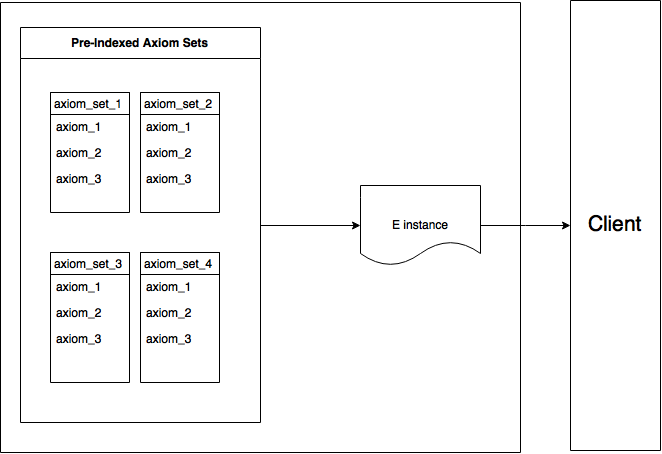
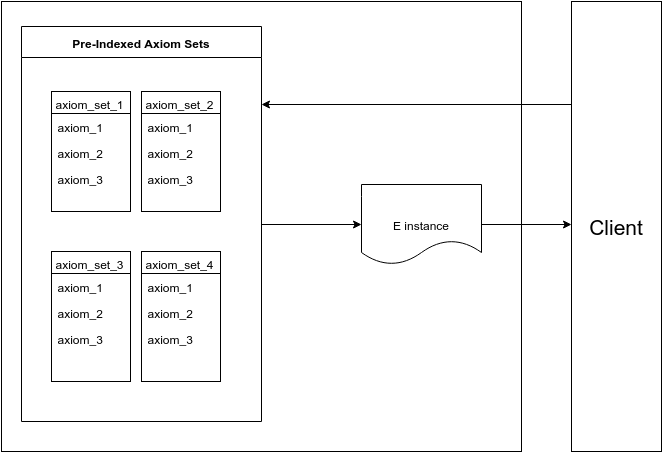
Some modifications

diff --git a/thesis/content/deduction_server.tex b/thesis/content/deduction_server.tex
@@ -1,60 +1,60 @@
 \chapter{Architecture}
 
-As mentioned in the background section, one of the problems is that if we have a static dataset and we need to answer multiple queries against this set, we will need to re-parse the whole dataset with each query. The problem here is that there is no persistence. Each job runs separately from the other one. If we mange to keep the parsed set in the memory for other jobs to use, it will solve most of the problems.
+As mentioned in the background section, one of the problems is that if there is a static dataset and multiple queries needs to be answered against this set, the whole dataset should be re-parsed with each query. The problem here is that there is no persistence. Each job runs separately from the other one. If we mange to keep the parsed set in the memory for other jobs to use, it will solve most of the problems.
 
-To solve this problem we need to have the concept of sessions. Each session contains a previously parsed axiom set --- for example --- and in the session you can query this dataset multiple times. To handle all of those sessions we need a server, so we decided to go with the server-client architecture to solve this problem. In the server-client architecture, we have one or more servers and clients connect to these servers and have their own separate sessions.
+To solve this problem, The concept of sessions should be introduced. Each session contains a previously parsed axiom set --- for example --- and in the session you can query this dataset multiple times. To handle all of those sessions a server is needed, so we decided to go with the server-client architecture to solve this problem. In the server-client architecture, there are one or more servers. Clients connect to these servers and have their own separate sessions.
 
 \section{Server-Client Architecture}
 \subsection{Server Design}
 The deduction server is written in C and integrated with E but runs as a separate executable. The server starts by listening to a certain port for incoming \ac{tcp} connections. Whenever a client tries to connect to the server on that port a process is forked from the main process to serve the client. The server can handle many connections at the same time and each client is completely isolated from other clients connected to the server.
 
-The client can then start interacting with the server using a pre-defined protocol. Using the protocol the client can upload axiom sets, remove them and query the server for proofs. Whenever the client uploads some set of axioms, the server parses, indexes and keep those axioms into its memory. 
+The client can then start interacting with the server using a pre-defined protocol. Using the protocol the client can upload axiom sets, remove them and query the server for proofs. Whenever the client uploads some set of axioms, the server parses, indexes and stores those axioms into its memory.
 
-After the client chooses some axiom sets to be used in the proof search, he can start querying the server. The query consists of some optional additional axioms that will be discarded when the job finished, and a conjecture. The server adds the new axioms to the knowledge base and passes the whole dataset to an E instance to solve the problem. The architecture is shown in Figure~\ref{fig:TheDeductionServerWithoutPruneAndStage}.
+After the client chooses some axiom sets to be used in the proof search, he can start querying the server. The query consists of some optional additional axioms that will be discarded when the job finishes, and a conjecture. The server adds the new axioms to the knowledge base and passes the whole dataset to an E instance to solve the problem. The architecture is shown in Figure~\ref{fig:TheDeductionServerWithoutPruneAndStage}.
 
 \includefig{0.82}{TheDeductionServerWithoutPruneAndStage.png}{Server Architecture}{fig:TheDeductionServerWithoutPruneAndStage}
 
-One more feature, that is added to server, is the ability to choose which axiom sets to consider in your proof. We called this feature staging. You could have many axiom sets in the server's memory but only those who are staged will be considered when finding a proof. By this the server can be used as a pre-indexed, ready-to-use library of knowledge bases. The server also offers pre-uploaded sets of axioms that the client can use directly. This architecture is shown in Figure~\ref{fig:TheDeductionServerWithoutPrune}.
+One more feature that is added to server, is the ability to choose which axiom sets to consider in your proof. This feature is called staging. You could have many axiom sets in the server's memory, but only those who are staged will be considered when finding a proof. Consequently the server can be used as a pre-indexed, ready-to-use library of knowledge bases. The server also offers pre-uploaded sets of axioms that the client can use directly. This architecture is shown in Figure~\ref{fig:TheDeductionServerWithoutPrune}.
 
 \includefig{0.82}{TheDeductionServerWithoutPrune.png}{Server Architecture with Staging}{fig:TheDeductionServerWithoutPrune}
 
 \subsection{Client Design}
-The E distribution comes also with a python client called ``enetcat.py'' which can be used to interact with the server. The client is meant to be a reference implementation so that the client can be ported into other languages. The client takes the address and the port of the deduction server as arguments and starts a \ac{tcp} connection with it. The python clients reads the user's commands from ``stdin'' and prints the output back to ``stdout''.
+The E distribution comes also with a python client called ``enetcat.py'' which can be used to interact with the server. The python client is meant to be a reference implementation so that it can be ported into other languages. The client takes the address and the port of the deduction server as arguments and starts a \ac{tcp} connection to that port. The python client reads the user's commands from ``stdin'' and prints the output back to ``stdout''.
 
-The client has two main parts that differs it from a normal telnet session. The first one is that the \ac{tcp} messages exchanged with between the server and the client are encoded in a certain format. It's the python clients responsibility to encode outgoing messages into this format and decode incoming messages from this format. Usually axiom set files includes other file within them. The client expands those includes recursively into their content, so that the server receives axiom sets free of includes.
+The client has two main parts that differentiates it from a normal telnet session. The first one is that the \ac{tcp} messages exchanged between the server and the client are encoded in a certain format. It is the python client's responsibility to encode outgoing messages into this format and decode incoming messages from this format. Usually, axiom set files include other axiom set files within them. The client expands those includes recursively into their content, so that the server receives axiom sets free of includes.
 
 Having different implementations of the client in different programming languages makes it easier for complex systems to integrate with automated theorem provers and use them as a service. By just including the library, those systems do not need to have the ATP installed on their machines and do not need to care about the memory or the computation power needed for the proofs as proving conjectures is the server's responsibility.
 
 \section{Pruning}
-As we mentioned before, the server can be used as a pre-indexed ready-to-use library of axioms. But this does not do any good to the proof search, thousand and even millions of axioms can be in the server's memory at any time. Answering a query with those axioms staged in the memory will yield a very large search space even if the query only needs a small subset of these axioms.
+As mentioned before, the server can be used as a pre-indexed ready-to-use library of axioms. But this does not do any good to the proof search, thousand and even millions of axioms can be in the server's memory at any time. Answering a query with those axioms staged in the memory will yield a very large search space even if the query only needs a small subset of these axioms.
 
 We need a component in our server that will select a subset of the axioms in the memory that are most probably relevant in the proof of this query. This process is called pruning. The new component will run on the knowledge base given the conjecture to filter irrelevant axioms and passing the resulted filtered axioms to the E prover to find the proof as shown in figure~\ref{fig:Pruning}.
 
 \includefig{0.82}{Pruner.png}{Pruning}{fig:Pruning}
 
-Currently the server supports only pruning by SinE. SinE works by calculating the frequency count of symbols in the axioms and then running the pruning algorithm after that. This works nicely with the server as staging and unstaging axioms is as easy as adding their frequency counts to the frequency table and removing them respectively.
+Currently the server supports only pruning by SinE. SinE works by calculating the frequency count of symbols in the axioms and then running the pruning algorithm. This works nicely with the server as staging and unstaging axioms is as easy as adding their frequency counts to the frequency table and removing them respectively.
 
-The pruner produces smaller problems that is then passed to E. This architecture works, but is not fully utilizing the server's resources. Instead of trying to solve one problem, we can run the pruner with different parameters to get several different smaller problems. Each one of those problems is passed to E instances, running in parallel. Whenever an E instance finds a solution to one of the problems, all the other instances are killed and the solution is returned back to the user. So the final server structure is the one shown in figure~\ref{fig:TheFinalDeductionServer}.
+The pruner produces smaller problems that is then passed to E. This architecture works, but is not fully utilizing the server's resources. Instead of trying to solve one problem, the pruner can be run with different parameters to get several different smaller problems. Each one of those problems is passed to E instances running in parallel. Whenever an E instance finds a solution to one of the problems, all the other instances are killed and the solution is returned back to the user. So the final server structure is the one shown in figure~\ref{fig:TheFinalDeductionServer}.
 
 \includefig{0.82}{TheDeductionServer.png}{The Final Deduction Server Architecture}{fig:TheFinalDeductionServer}
 
 \section{Communication}
 \subsection{TCP Communication}\label{subsec:tcpCommunication}
-The communication with the server is done over \ac{tcp} to insure reliability. Session is created by initiating a \ac{tcp} connection with the server on a certain port. The session lives as long as the \ac{tcp} connection is open. A child process from the server is forked to server this client. Commands are a series of \ac{tcp} messages that follows a certain format. Each line should be in a separate \ac{tcp} message and must be encoded in the following format:
+The communication with the server is done over \ac{tcp} to ensure reliability. The session is created by initiating a \ac{tcp} connection with the server on a certain port. The session lives as long as the \ac{tcp} connection is open. A child process from the server is forked to serve this client. Protocol commands are a series of \ac{tcp} messages that follow a certain format. Each line should be in a separate \ac{tcp} message and must be encoded in the following format:
 
 As an example, to send the message ``LIST\textbackslash{}n'' the raw \ac{tcp} message would be:
 \begin{lstlisting}
   \x00\x00\x00\x09 \x4c\x49\x53\x54\x0a
 \end{lstlisting}
-The first four bytes \lstinline{\x00\x00\x00\x09} encodes the length of the message which is 9 bytes. Then (9--4) bytes follows \lstinline{\x4c\x49\x53\x54\x0a} which are the actual content of the message. Sticking to the protocol new lines are important to the server and each line should be terminated with a new line. Server responses are encoded in the same way.
+The first four bytes \lstinline{\x00\x00\x00\x09} encode the length of the message which is 9 bytes. Then the remaining five bytes follow \lstinline{\x4c\x49\x53\x54\x0a} which contain actual content of the message. Sticking to the protocol new lines are important to the server and each line should be terminated with a new line. Server responses are encoded in the same way.
 
 \subsection{Interaction Protocol}\label{subsec:interactionProtocol}
-As we mentioned before, the communication between the server and the client is in the form of commands and responses. The formal documentation of the protocol is in the appendix. We will try to solve the problem we mentioned in section X and we will use it as an example to describe the protocol:
+As mentioned before, the communication between the server and the client is in the form of commands and responses. The formal documentation of the protocol is in the appendix. Solving the problem mentioned in section~\ref{sec:eprover} will be used as an example to describe the protocol:
 \lstinputlisting[numbers=left]{codes/protocolexample1.txt}
-First of all, we will need to upload the axioms to the server. Using the ``ADD \ldots GO'' block we can upload axioms to the system. Axioms uploaded are parsed and stored in the memory of the server but do not get used into any proof yet. The server responds with the result of execution after each command.
+First of all, the axioms need to be uploaded to the server. This can be done using the ``ADD \ldots GO'' block. Axioms uploaded are parsed and stored in the memory of the server but do not get used into any proof yet. The server responds with the result of the execution after each command.
 \lstinputlisting[numbers=left]{codes/protocolexample2.txt}
-To start making the axioms we used get into proofs we need to ``STAGE'' them. If at any time we need to check the status of the session we use the ``LIST'' command. LIST will print the axioms that are currently in the memory and whether they are staged or not and also server-side axiom sets. Server-side axiom sets can also be loaded into the server's memory using the ``LOAD'' command.
+To start using the uploaded axioms in proofs, they need to be ``STAGE''d. If at any time the status of the session needs to be checked, the ``LIST'' command is used. LIST prints the axioms that are currently in the memory and whether they are staged or not in addition to server-side axiom sets. Server-side axiom sets can also be loaded into the server's memory using the ``LOAD'' command.
 \lstinputlisting[numbers=left]{codes/protocolexample3.txt}
-Now after staging the needed axioms we can start running the job with ``RUN \ldots GO'' block. Axioms introduced in the RUN command block are used temporally in this job and then discarded after the termination of the job.
+Now after staging the needed axioms, the ``RUN \ldots GO'' block can be used to start running the job. Axioms introduced in the RUN command block are used temporarily in this job and then discarded after the termination of the job.
 \lstinputlisting[numbers=left]{codes/protocolexample4.txt}
-Axiom sets can also be ``UNSTAGE''d or ``REMOVE''d completely from the system. Since sessions can be running for long time, you can check the content of any axiom set using the ``DOWNLOAD'' command. In the last set of commands we try to remove one of the axiom sets and re-run the job. We will notice that a proof won't be found. Notice that the second job run did not need to state anything about the axioms to be used in the proof, they are already staged and ready-to-use in the server's memory.
+Axiom sets can also be ``UNSTAGE''d or ``REMOVE''d completely from the system. Since sessions can be running for long time, the content of any axiom set can be checked using the ``DOWNLOAD'' command. In the last set of commands one of the axiom sets is removed the job is restarted. We will notice that a proof will not be found. Notice that the second job run did not need to state anything about the axioms to be used in the proof, they are already staged and ready-to-use in the server's memory.

diff --git a/thesis/content/background.tex b/thesis/content/background.tex
@@ -7,7 +7,7 @@ Automated theorem proving is used in many fields in the industry. For instance, 
 
 Many automated theorem provers exist, such as E, Vampire and SPAAS. Automated theorem provers may be fully automated or may require some guidance by humans. The next section talks about the fully automated theorem prover E in which this project was done.
 
-\section{E Theorem Prover}
+\section{E Theorem Prover}\label{sec:eprover}
 E is a fully automated theorem prover for full first order logic with equality. E's first public release was in 1998. It is implemented in C and works on most UNIX systems. E works by accepting a problem in the form of axioms and a conjecture that needs to be proven and will try to find a formal proof for the conjecture assuming the axioms. E can also provide a model that satisfies the problem. For instance, let's consider the following problem:
 \begin{lstlisting}
 % Here we are defining some assumptions that a is a subclass of b and b is a subclass of c.
